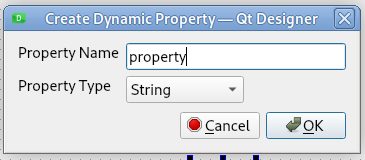
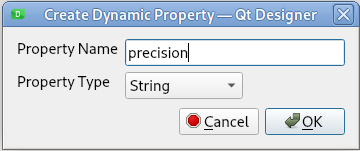
update docs

Changed region(s): [[0.0, 0.0, 1.0, 1.0], [0.3361, 0.4768, 0.6722, 0.6623]]

diff --git a/docs/source/labels.rst b/docs/source/labels.rst
@@ -11,7 +11,10 @@ label set the `objectName` to the status you want.
 .. image:: /images/status-01.png
    :align: center
 
-If the label returns a float the default precision is 3 for metric and 4 for
+Precision
+---------
+
+Labels that return float values default precision is 3 for metric and 4 for
 inch.
 
 To override the default, select the label then click on the Green Plus sign in
@@ -33,6 +36,9 @@ Set the Value to how many decimal places you want for that status label.
 
 For more information about status labels read the LinuxCNC `Python Interface
 Status Attributes <http://linuxcnc.org/docs/stable/html/config/python-interface.html#_linuxcnc_stat_attributes>`_.
+
+Status Labels
+-------------
 
 .. csv-table:: Single Status Labels
    :width: 100%
@@ -213,10 +219,4 @@ Replace the `_n_` with the position in the tool table.
 	tool_table_woffset_n_lb, tool_table_diameter_n_lb, tool_table_frontangle_n_lb
 	tool_table_backangle_n_lb, tool_table_orientation_n_lb
 
-Precision
----------
-
-Labels that show float values the precision can be set by adding a string
-Dynamic Property called `precision` and setting the precision you want as the
-value. If the precision is not set it will default to 3.
 
